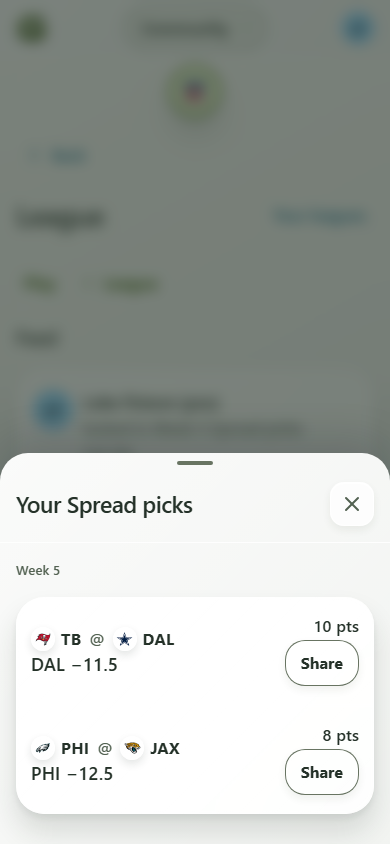
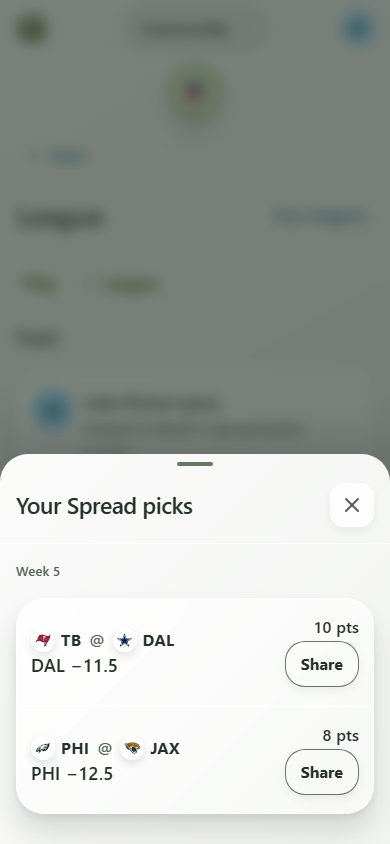
Fix NFL action list surfaces

diff --git a/tests/cloud-browser/next-prism-action-states.spec.js b/tests/cloud-browser/next-prism-action-states.spec.js
@@ -3,7 +3,7 @@ import AxeBuilder from '@axe-core/playwright';
 import fs from 'node:fs';
 import path from 'node:path';
 import { ALL } from '../migrations.mjs';
-import { nativeActionPairs } from '../helpers/native-action-captures.mjs';
+import { nativeActionCaptures, nativeActionPairs } from '../helpers/native-action-captures.mjs';
 import { ACCOUNTS, SUPABASE, communityWorld, pgliteAvailable, signIn, sendBallot as sendCommunityBallot, storeBookLines } from './community-world.mjs';
 import { sendBallot, storeLines } from '../helpers/guess-week.mjs';
 import { layoutProblems } from '../helpers/phone-layout.mjs';
@@ -24,6 +24,21 @@ const checks = page => async () => {
   const audit = await new AxeBuilder({ page }).withTags(['wcag2a', 'wcag2aa', 'wcag21a', 'wcag21aa', 'wcag22aa']).analyze();
   expect(audit.violations.map(v => v.id)).toEqual([]);
 };
+async function expectFlatActionList(list) {
+  await expect(list).toBeVisible();
+  const style = await list.evaluate(el => {
+    const css = getComputedStyle(el);
+    return { background: css.backgroundColor, rowGap: css.rowGap };
+  });
+  expect(style.background).toMatch(/^rgba\(\d+, \d+, \d+, 0\)$/);
+  expect(style.rowGap).toBe('0px');
+}
+async function captureActionState(page, name, inspect) {
+  await nativeActionCaptures(page, name, async () => {
+    await checks(page)();
+    await inspect();
+  }, { widths: [320, 390], forced: false });
+}
 async function open(page) {
   await page.addInitScript(() => localStorage.setItem('gtl.app', 'next'));
   await page.goto('/#play/league?view=feed');
@@ -105,7 +120,7 @@ test('feed picks retain hidden values and show separate loading failed empty and
     await troy.getByRole('button', { name: /Troy Fixture’s .* picks/ }).click();
     const sheet = page.getByRole('dialog', { name: /Troy Fixture’s .* picks/ });
     await expect(sheet).toContainText('Hidden until you lock in');
-    await nativeActionPairs(page, 'nfl-feed-hidden', checks(page));
+    await captureActionState(page, 'nfl-feed-hidden', () => expectFlatActionList(sheet.locator('.gx-feed-picks > .gx-list')));
     await page.keyboard.press('Escape');
     let behavior = 'loading';
     const picksRoute = routeFor('community/picks');
@@ -134,7 +149,7 @@ test('feed picks retain hidden values and show separate loading failed empty and
     await page.locator('.gx-feed-post[data-kind="ballot_submitted"]').filter({ hasText: 'Luke Fixture' }).getByRole('button', { name: 'See your Spread picks' }).click();
     const own = page.getByRole('dialog', { name: 'Your Spread picks' });
     await expect(own).toContainText('10 pts');
-    await nativeActionPairs(page, 'nfl-feed-picks', checks(page));
+    await captureActionState(page, 'nfl-feed-picks', () => expectFlatActionList(own.locator('.gx-feed-picks > .gx-list')));
     let writes = 0;
     await page.route(routeFor('league/share-result'), route => { writes++; return route.fulfill({ status: 503, json: { error: 'Fixture lost reply.' } }); });
     await own.getByRole('button', { name: 'Share your Spread result for TB @ DAL' }).click();
@@ -153,6 +168,7 @@ test('reactors preserve native loading failed and empty read states', async ({ p
     const post = page.locator('.gx-feed-post[data-kind="joined"]').first();
     const postId = await post.getAttribute('data-post');
     expect((await world.api('troy', 'league/react', { postId, reaction: 'fire' })).status).toBe(200);
+    expect((await world.api('sean', 'league/react', { postId, reaction: 'thumbs_up' })).status).toBe(200);
     await page.reload(); await expect(post.getByRole('button', { name: /^Fire/ })).toBeVisible();
     let state = 'loading';
     const reactorsRoute = routeFor('league/reactors');
@@ -174,7 +190,27 @@ test('reactors preserve native loading failed and empty read states', async ({ p
     await post.getByRole('button', { name: 'Add a reaction' }).click();
     await page.getByRole('dialog', { name: 'Choose a reaction' }).getByRole('button', { name: 'See who reacted' }).click();
     await expect(page.getByRole('list', { name: 'Who reacted' })).toContainText('Troy Fixture');
-    await nativeActionPairs(page, 'nfl-reactors', checks(page));
+    const populatedList = page.getByRole('list', { name: 'Who reacted' });
+    const populatedRows = populatedList.locator(':scope > li > .gx-feed-reactor');
+    await expect(populatedRows).toHaveCount(2);
+    const inspectReactors = async () => {
+      await expectFlatActionList(populatedList);
+      await expect(populatedRows.first()).toHaveCSS('border-bottom-width', '1px');
+      await expect(populatedRows.last()).toHaveCSS('border-bottom-width', '0px');
+    };
+    await captureActionState(page, 'nfl-reactors', inspectReactors);
+    await page.setViewportSize({ width: 320, height: 844 });
+    await setNativeActionTheme(page, 'light');
+    await page.emulateMedia({ forcedColors: 'active' });
+    await checks(page)();
+    await assertNativeActionTheme(page, 'light');
+    await inspectReactors();
+    await expect(populatedRows.first()).toHaveCSS('border-bottom-style', 'solid');
+    await expect(populatedRows.first()).toHaveCSS('border-bottom-color', 'rgb(0, 0, 0)');
+    await expect(populatedRows.last()).toHaveCSS('border-bottom-width', '0px');
+    await expect(page.locator('html')).toHaveAttribute('data-theme-preference', 'light');
+    await page.screenshot({ path: path.resolve('design/prism-league-actions-native-2026-11-07/nfl-reactors-forced-320.png') });
+    await page.emulateMedia({ forcedColors: 'none' });
     expect(world.errors).toEqual([]);
   } finally { release?.(); await page.unrouteAll({ behavior: 'wait' }); await page.close(); await world.db.close(); }
 });

diff --git a/web/src/next/feed/ReactorsSheet.jsx b/web/src/next/feed/ReactorsSheet.jsx
@@ -23,7 +23,7 @@ export function ReactorsSheet({ args }) {
     {state.loading ? <Skeleton label="Loading reactions…" shape="rows" count={4}/> : null}
     {state.error ? <p className="gx-t-body gx-c-loss" role="alert">{state.error.status ? state.error.message : 'No connection. Reconnect and try again.'}</p> : null}
     {!state.loading && !state.error && !state.reactors.length ? <p className="gx-t-body gx-c-2">No reactions yet.</p> : null}
-    {state.reactors.length ? <Card variant="flush"><List label="Who reacted" data-emoji-ok="true">{state.reactors.map(row => {
+    {state.reactors.length ? <Card variant="flush"><List label="Who reacted" className="gx-feed-reactors" data-emoji-ok="true">{state.reactors.map(row => {
       const name = names.get(row.userId) || 'Former member', reaction = reactionOf(row.reaction);
       return <div key={row.userId} className="gx-feed-reactor">
         <Avatar id={row.userId} name={name} size={36} you={row.userId === app.accountId}/>

diff --git a/web/src/next/nfl-actions.css b/web/src/next/nfl-actions.css
@@ -26,7 +26,9 @@
 .gx .gx-nfl-action .gx-feed-pick { padding: 18px 14px; border-bottom: 1px solid var(--gx-border); }
 .gx .gx-nfl-action .gx-feed-pick:last-child { border-bottom: 0; }
 .gx .gx-nfl-action .gx-feed-reactor { padding: 18px 14px; border-bottom: 1px solid var(--gx-border); }
-.gx .gx-nfl-action .gx-feed-reactor:last-child { border-bottom: 0; }
+.gx .gx-nfl-action .gx-feed-reactors > li:last-child > .gx-feed-reactor { border-bottom: 0; }
+.gx .gx-nfl-action .gx-feed-picks > .gx-list,
+.gx .gx-nfl-action .gx-feed-reactors { background: transparent; gap: 0; }
 .gx .gx-nfl-action .gx-feed-emoji--big { font-size: 27px; }
 .gx :is(.gx-nfl-action, .gx-nfl-action-content) .gx-ev-picks { display: grid; gap: 18px; }
 .gx :is(.gx-nfl-action, .gx-nfl-action-content) .gx-ev-pick { align-items: flex-start; gap: 10px; }

diff --git a/docs/PRISM_LEAGUE_ACTIONS_FIDELITY_FIXES_2026_11_07.md b/docs/PRISM_LEAGUE_ACTIONS_FIDELITY_FIXES_2026_11_07.md
@@ -8,6 +8,29 @@ then cherry-picks dependency `194ba410db4847594324243141fd1b6b09c10f3b` as
 `4983138495f3d62268f3f1cfa39b21b477981297`. No push, PR, merge, deploy or
 migration is part of this handoff.
 
+## Final Picks / Reactors list-surface correction — November 7, 2026
+
+The final focused review left two visual issues: the Picks and Reactors rows
+showed the global List backplate, and Reactors' last-row separator selector did
+not reach through the List's `li` wrapper. The scoped `.gx-nfl-action` rules now
+make those existing lists transparent with zero gap; `ReactorsSheet` supplies
+the class and the final separator targets its real last list item. The parent
+flush glass card stays visible under the rows. No List default, controller, API,
+SQL, privacy/reveal or unit gate changed.
+
+The existing native browser fixtures now assert transparent computed list
+backgrounds, zero row gap, a 1px first-row separator and no final separator with
+two real local reactions. Hidden opponent picks retain their redaction. The two
+focused browser cases passed with no skips at 320/390 in actual native Dark and
+Light preferences; 44px targets, axe, keyboard, overflow, and a focused forced
+colors separator check also passed. Reinspected captures against exact review
+authority `3ac2eb50513ba73447ef890e4a47863cde7bdd76` retain the selected card face
+and row hierarchy. The evidence manifest preserves all 200 unaffected images
+from the 206-image prior set, refreshes the six affected 390px images and adds
+their six 320px counterparts plus one forced-colors check. These
+local results do not establish approval, deployment, hosted acceptance or full
+106-state completion.
+
 The exact approved reference checkout remains at
 `3ac2eb50513ba73447ef890e4a47863cde7bdd76`. Its populated League, populated
 NFL actions, isolated native presentation and selected-system review files were

diff --git a/docs/COMPLETION_REGISTER.md b/docs/COMPLETION_REGISTER.md
@@ -1,5 +1,20 @@
 # Guess The Line — current completion register
 
+## League/action list-surface correction — November 7, 2026
+
+Exclusive unpublished branch `codex/fix-reactor-list-surfaces-2026-11-07` applies
+the final focused feed-list review: Picks and Reactors inherit no list backplate
+or extra row gap, and the Reactors separator ends at the actual last list item.
+The selected parent glass card remains visible behind its rows. Existing global
+List defaults, handlers, privacy/reveal rules and storage are unchanged. The
+native browser checks pass at 320/390 in Dark/Light, including hidden-pick
+redaction, two populated reactor rows, separator widths, 44px controls, keyboard,
+overflow, axe and a focused forced-colors separator check. [Capture/source hashes,
+visual review and exact checks](../design/prism-league-actions-native-2026-11-07/evidence.json)
+preserve the 200 unaffected pre-existing images, update the six affected 390px
+images and add six 320px counterparts plus one forced-colors image. No push, PR,
+merge, deployment or hosted acceptance.
+
 ## Research Light capture evidence correction — November 7, 2026
 
 Exclusive unpublished branch `fix/research-light-evidence-20261107` fixes the
